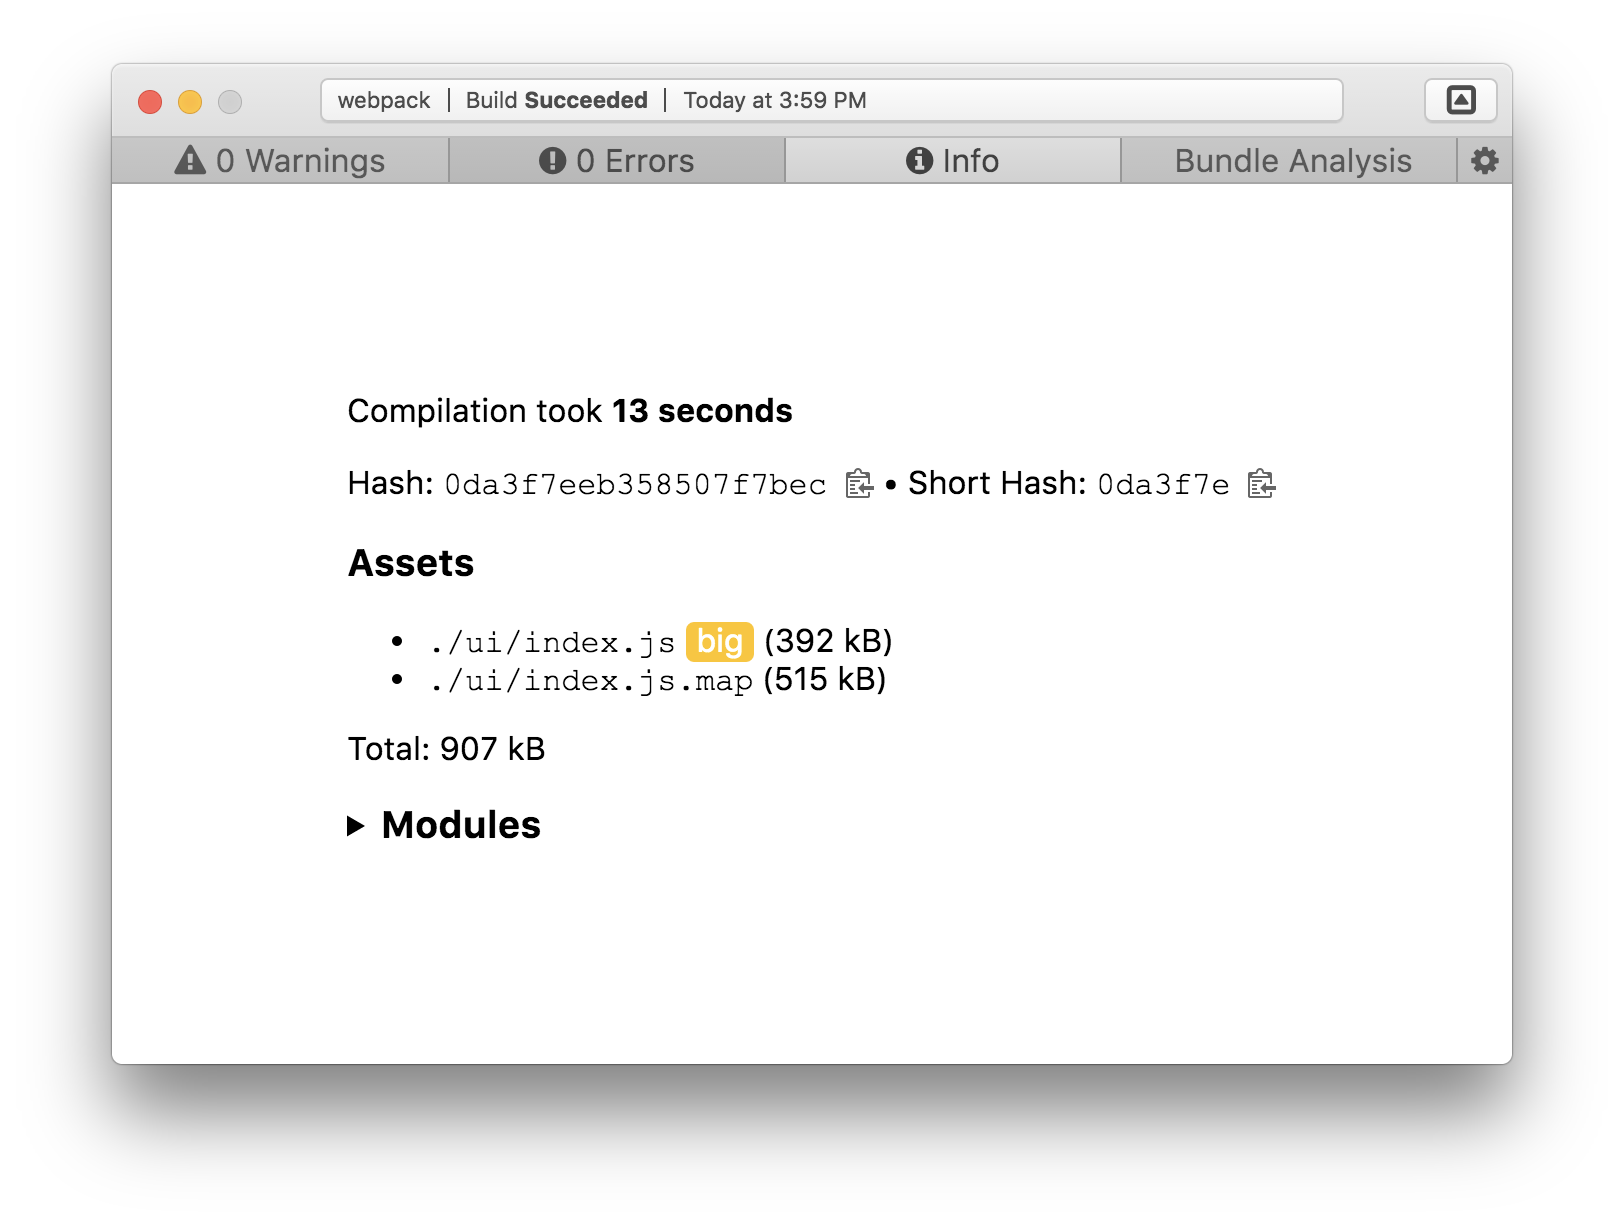
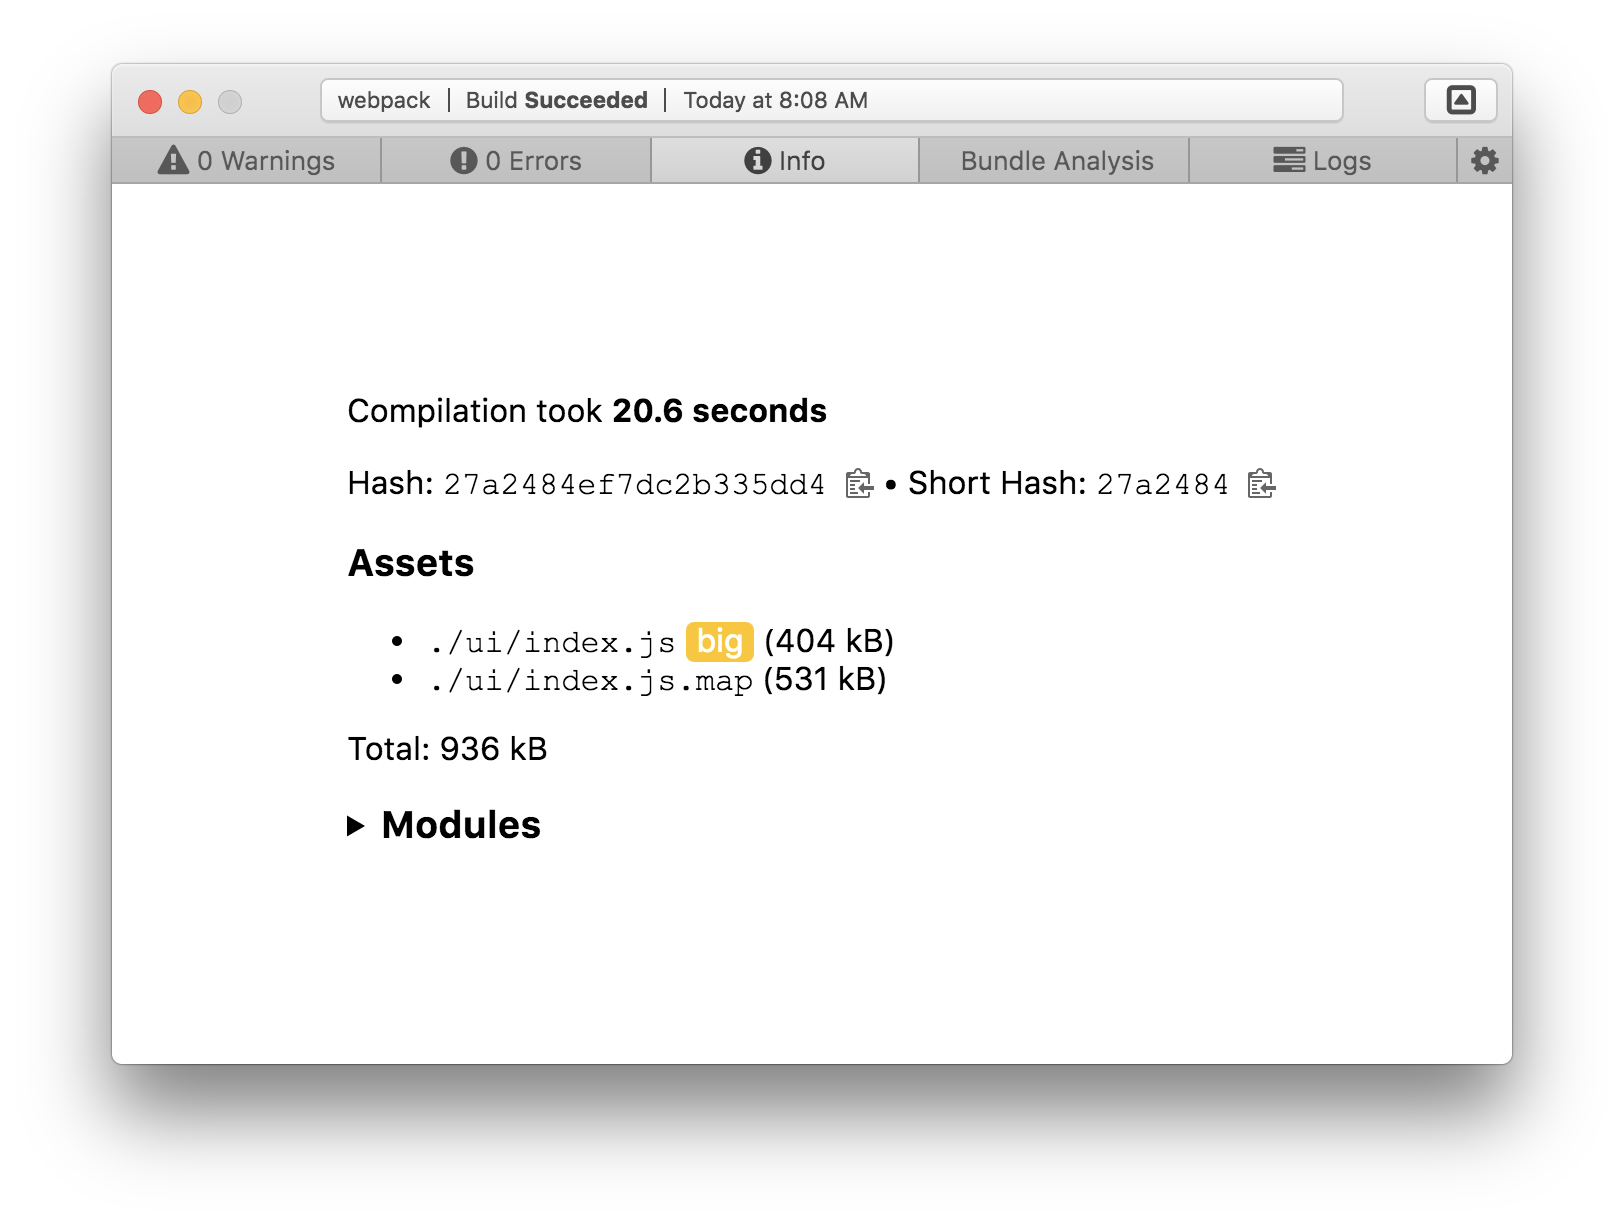
Update screenshots

diff --git a/README.md b/README.md
@@ -10,3 +10,5 @@ The modules section expands:
 ![Modules](screenshots/modules.png)  
 There are settings, although they’re not that complicated right now:  
 ![Settings](screenshots/settings.png)
+build-it also keeps every message logged during the build:
+![Logs](screenshots/logs.png)
